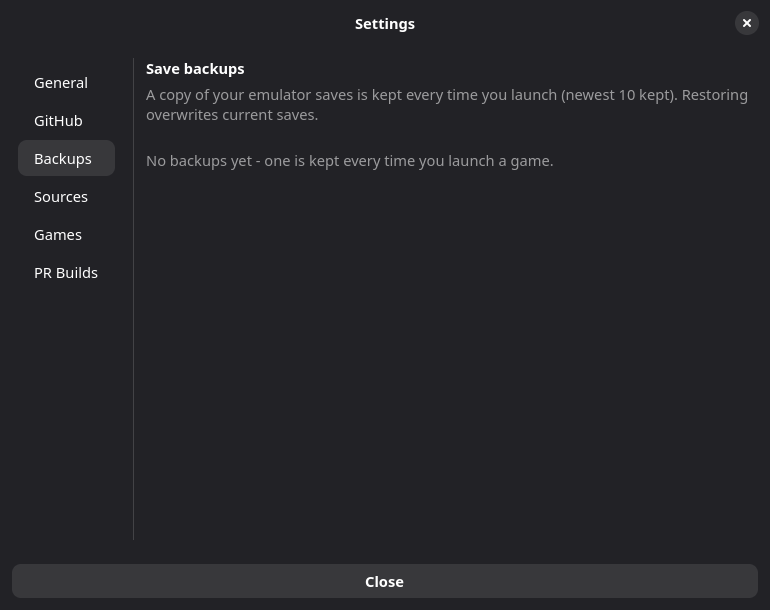
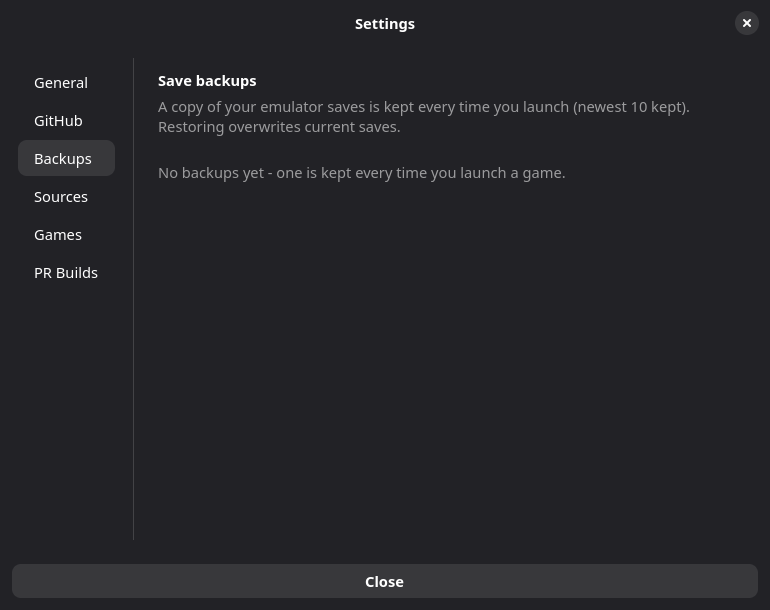
fix(ui): keep sidebar cards clear of the scrolled viewport edges
PreferencesGroup cards draw their border ring and shadow outside
their allocation, but sidebar pages sat flush against the scrolled
viewport so both sides rendered clipped - invisible borders in
light themes especially. Give every sidebar page 12px inner margins
(Settings, source editor, PR dialog) and refresh the screenshots.

Changed region(s): [[0.187, 0.0934, 0.9662, 0.218], [0.187, 0.2492, 0.7169, 0.3115]]

diff --git a/eglantine_launcher/ui/sidebar.py b/eglantine_launcher/ui/sidebar.py
@@ -55,6 +55,13 @@ class SidebarLayout(Gtk.Box):
 
     def add_page(self, key, widget):
         """Add a page, wrapped in its own scroller."""
+        # Cards draw their border ring and shadow outside their allocation,
+        # so keep them clear of the viewport edges or the sides render
+        # clipped (invisible borders in light themes especially).
+        widget.set_margin_top(12)
+        widget.set_margin_bottom(12)
+        widget.set_margin_start(12)
+        widget.set_margin_end(12)
         scrolled = Gtk.ScrolledWindow()
         scrolled.set_child(widget)
         scrolled.set_vexpand(True)
